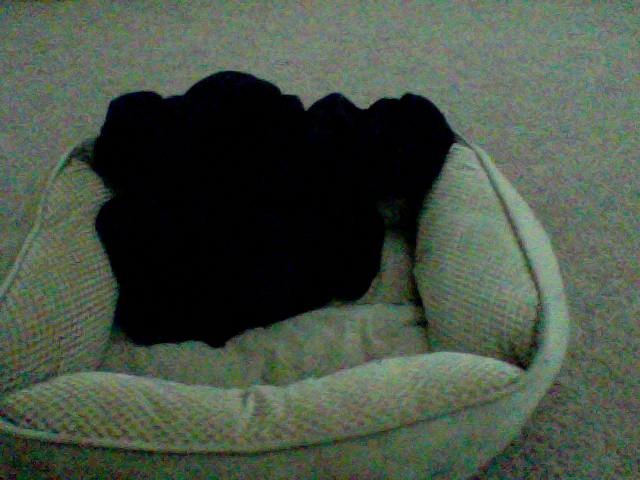
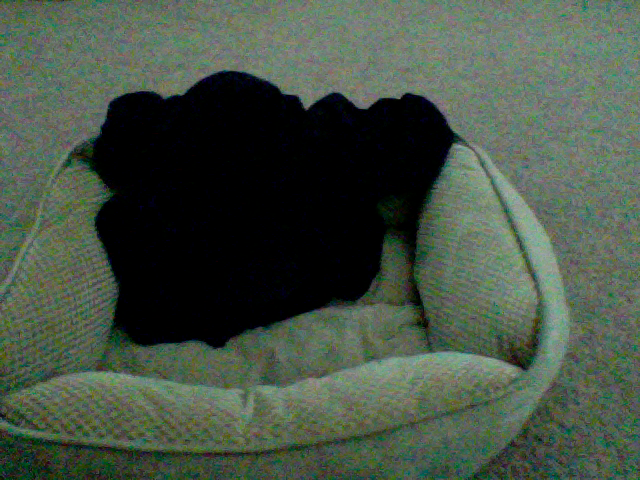
update at Month05Day08Time10:47

diff --git a/index.html b/index.html
@@ -39,8 +39,8 @@
       <!-- Example row of columns -->
       <div class="row">
         <div class="col-md-4">
-	<p>This picture was updated at Month05Day08Time10:46</p>
-		<img src="8_pic.png" />
+	<p>This picture was updated at Month05Day08Time10:47</p>
+		<img src="10_pic.png" />
         </div>
       </div>
 
